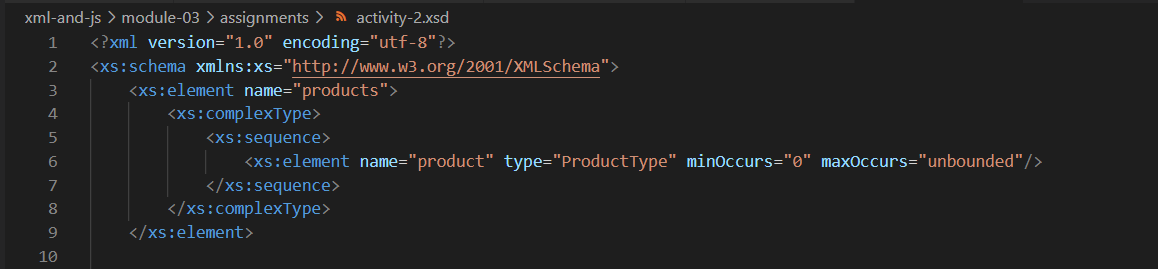
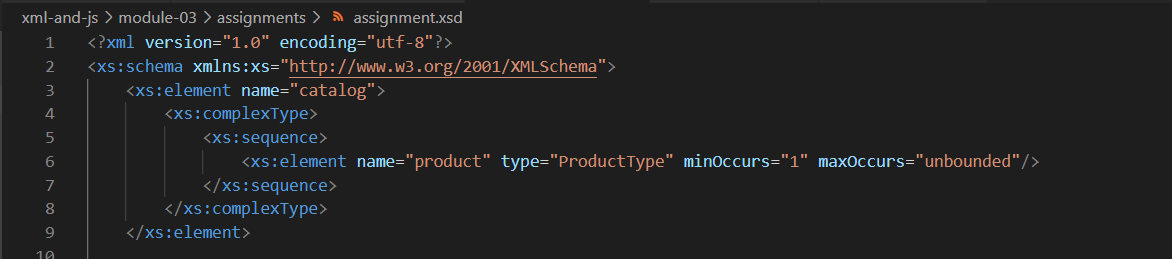
Add md file

diff --git a/module-03/assignments/Assignment_RyanGonzales.md b/module-03/assignments/Assignment_RyanGonzales.md
@@ -1,0 +1,110 @@
+**RYAN GONZALES**
+**N01540575**
+
+Create DTD for this file and validate it using any of the tools we used. Explain your thought process.
+
+![](DTD.PNG)
+
+
+```htm
+<!DOCTYPE catalog 
+[
+<!ELEMENT catalog (product+)>
+
+<!ELEMENT product (catalog_item+)>
+  <!ATTLIST product product_id ID #REQUIRED>
+  <!ATTLIST product description CDATA #REQUIRED>
+  <!ATTLIST product product_image CDATA #REQUIRED> 
+
+<!ELEMENT catalog_item (item_number, price, size+)>
+  <!ATTLIST catalog_item gender CDATA #REQUIRED>
+
+<!ELEMENT item_number (#PCDATA)>
+<!ELEMENT price (#PCDATA)>
+<!ELEMENT size (color_swatch+)>
+  <!ATTLIST size description CDATA #REQUIRED>
+
+<!ELEMENT color_swatch (#PCDATA)>
+  <!ATTLIST color_swatch image CDATA #REQUIRED>
+]>
+```
+
+![](validation.PNG)
+
+**For my DTD, I named the DOCTYPE as "catalog", which is the root element of the xml file. In the next populated line, I defined the parent element "catalog", with the child element "product". The plus sign beside the child element indicates cardinality, where least one element can exist in the content model of the xml.**
+
+**In the next populated line, I defined "product" as the next parent element with child element "catalog_item". The plus sign beside the child element indicates cardinality, where least one element can exist in the content model of the xml. The next three lines after this indicates the attributes assigned to the "product" element. First attribute is "product_id", in which I indicated it is "ID" attribute type as it seems to be a unique identifier of a product. Second and third attributes are "description" and "product_image" respectively, in which I indicated both to have "CDATA" attribute type since they contain string values. All (for example, these are data specifications for an online catalog where product_id, description and product_image will allow clients to see important details of the item) that will define what the product is all about.**
+
+**In the next populated lines, I defined "catalog_item" as the next parent element with three child elements: "item_number", "price" and "size" respectively. Both "item_number" and "price" do not have cardinality indicator as this means that both are required or must be contained in sequencial order together with at least one "size" element. I made item_number and price as required since in real retail/procurement scenarios, these data are required for an item. The plus sign beside the child element "size" indicates cardinality, where least one element can exist in the content model of the xml. The next line after this indicates the attributes assigned to the "catalog_item" element. Only one attribute, "gender", is listed and I indicated that the element is of string attribute type by using CDATA attribute type beside it. It is just right to indicate the "gender" attribute as required (placed #REQUIRED beside it) as this catalog_item attribute provides additional differentiation for the product**
+
+**In the next two populated lines, I defined the two child elements: "item_number" and "price". Since both of them contain only parsed data (no child elements assigned to them), I indicated this by adding #PCDATA. I then defined "size" in the next line as the next parent element with  chid element "color_swatch". "color_swatch" have cardinality indicator of a plus sign, where least one element can exist in the content model of the xml. In any retail/procurement scenario, at least one color of an item should be known for an item, that is why at least one "color_swatch" element must be present/defined. The next line after this indicates the attribute assigned to the "size" element. Only one attribute, "discription", is listed and I indicated that the element is of string attribute type by using CDATA attribute type beside it. The description attribute is tagged as required since this gives a client what sizes are available for a certain item or product in the catalog.**
+
+**The last two lines defines the last child element, "color_swatch" and it's attribute "image" with CDATA attribute type (as it contains the file name of the image of the color_swatch) assigned to it. Since color_swatch only holds parsed data (no child elements assigned to them), I indicated this by adding #PCDATA. I indicated this as required since cardinality indicates at least one color_swatch must be present, then at least one color of the item can also defined and a corresponding image of the item of that color should also be present in a catalog (it will be weird if a catalog doesn't have at least one picture of the item the company is selling).**
+
+Create XSD for this file and validate it using any of the tools we used. Explain your thought process.
+
+![](validation.PNG)
+
+```htm
+<?xml version="1.0" encoding="utf-8"?>
+<xs:schema xmlns:xs="http://www.w3.org/2001/XMLSchema">
+    <xs:element name="catalog">
+        <xs:complexType>
+            <xs:sequence>
+                <xs:element name="product" type="ProductType" minOccurs="1" maxOccurs="unbounded"/>
+            </xs:sequence>
+        </xs:complexType>
+    </xs:element>
+
+    <xs:complexType name="ProductType">
+        <xs:sequence>
+            <xs:element name="catalog_item" type="CatalogItemType" minOccurs="1" maxOccurs="unbounded"/>
+        </xs:sequence>
+        <xs:attribute name="product_id" type="xs:string"/>
+        <xs:attribute name="description" type="xs:string"/>
+        <xs:attribute name="product_image" type="xs:string"/>
+    </xs:complexType>
+
+    <xs:complexType name="CatalogItemType">
+        <xs:sequence>
+            <xs:element name="item_number" type="xs:string"/>
+            <xs:element name="price" type="xs:decimal"/>
+            <xs:element name="size" type="SizeOptions" minOccurs="1" maxOccurs="unbounded"/>
+       </xs:sequence>
+       <xs:attribute name="gender" type="xs:string"/>
+    </xs:complexType>	
+
+    <xs:complexType name="SizeOptions">
+        <xs:sequence>
+			<xs:element name="color_swatch"  minOccurs="1" maxOccurs="unbounded" >
+				<xs:complexType>
+					<xs:simpleContent>
+						<xs:extension base="xs:string">
+							<xs:attribute name="image" type="xs:string"/>
+						</xs:extension>
+					</xs:simpleContent>
+				</xs:complexType>
+			</xs:element>
+		</xs:sequence>
+        <xs:attribute name="description" type="xs:string"/>
+    </xs:complexType>	
+
+</xs:schema>
+```
+![](xsd1.PNG)
+
+**First I defined the XML schema which is the same one we used in activity2. Then I defined the first element "catalog" which is a complex type since it has attributes. I also indicated a sequence below it as it has child elements assigned to it. Inside the sequence is the catalog's child element, "product". And since "product" also has child elements under it, I defined a type for this as "ProductType", which will be defined as a complex type element and will have it's own set of elements under it's sequence. And since there can be at least be one product existing in a catalog, I defined element "product" to have minOccurs="1" which means the element can appear at least once, and maxOccurs="unbounded" which means it can be more than 1 without a set limit.**
+
+![](xsd2.PNG)
+
+**In the next populated lines, I defined complex type element "ProductType", which came from element "product" type I defined. Here I also indicated a sequence since ProductType has the child element "catalog_item". And since "catalog_item" also has child elements under it, I defined a type for this as "CatalogItemType", which will be defined as a complex type element and will have it's own set of elements under it's sequence. And since there can be at least be one catalog_item existing in a product, I defined element "catalog_item" to have minOccurs="1" which means the element can appear at least once, and maxOccurs="unbounded" which means it can be more than 1 without a set limit. In the next three lines below the sequence ending tag, the product element's attributes in xml are defined where in "product_id", "description" and "product_image" were used as string type elements.**
+
+![](xsd3.PNG)
+
+**In the next populated lines, I defined complex type element "CatalogItemType", which came from element "catalog_item" type I defined. Here I also indicated a sequence since CatalogItemType has three child elements: "item_number", "price" and "size". I defined them of their data types as used in the xml, assigning "string", "decimal" and "SizeOptions" respectively.**
+
+**And since "size" also has child elements under it, I defined a type for this as "SizeOptions", which will be defined as a complex type element and will have it's own set of elements under it's sequence. And since there can be at least be one size existing in a catalog_item, I defined element "size" to have minOccurs="1" which means the element can appear at least once, and maxOccurs="unbounded" which means it can be more than 1 without a set limit. In the next line below the sequence ending tag, the catalog_item element's attribute in xml is defined where in "gender" is used as string type element.**
+
+![](xsd4.PNG)
+
+**In the next populated lines, I defined complex type element "SizeOptions", which came from element "size" type I defined. Here I also indicated a sequence since SizeOptions has the child element "color_swatch". The element "color_swatch" doesn't have any child elements under it but has attributes assigned to it, I used the format of using complexType, simpleContent, then extension tags. And in the innermost is the attributes tag and I defined the attribute of the color_swatch which is "image" to be of string type (since it uses the file name of an image). And since there can be at least be one color_swatch existing in a certain size of an item/product, I defined element "color_swatch" to have minOccurs="1" which means the element can appear at least once, and maxOccurs="unbounded" which means it can be more than 1 without a set limit. In the next line below the sequence ending tag, the product element size's attribute "description" has been used as a string type element.**
